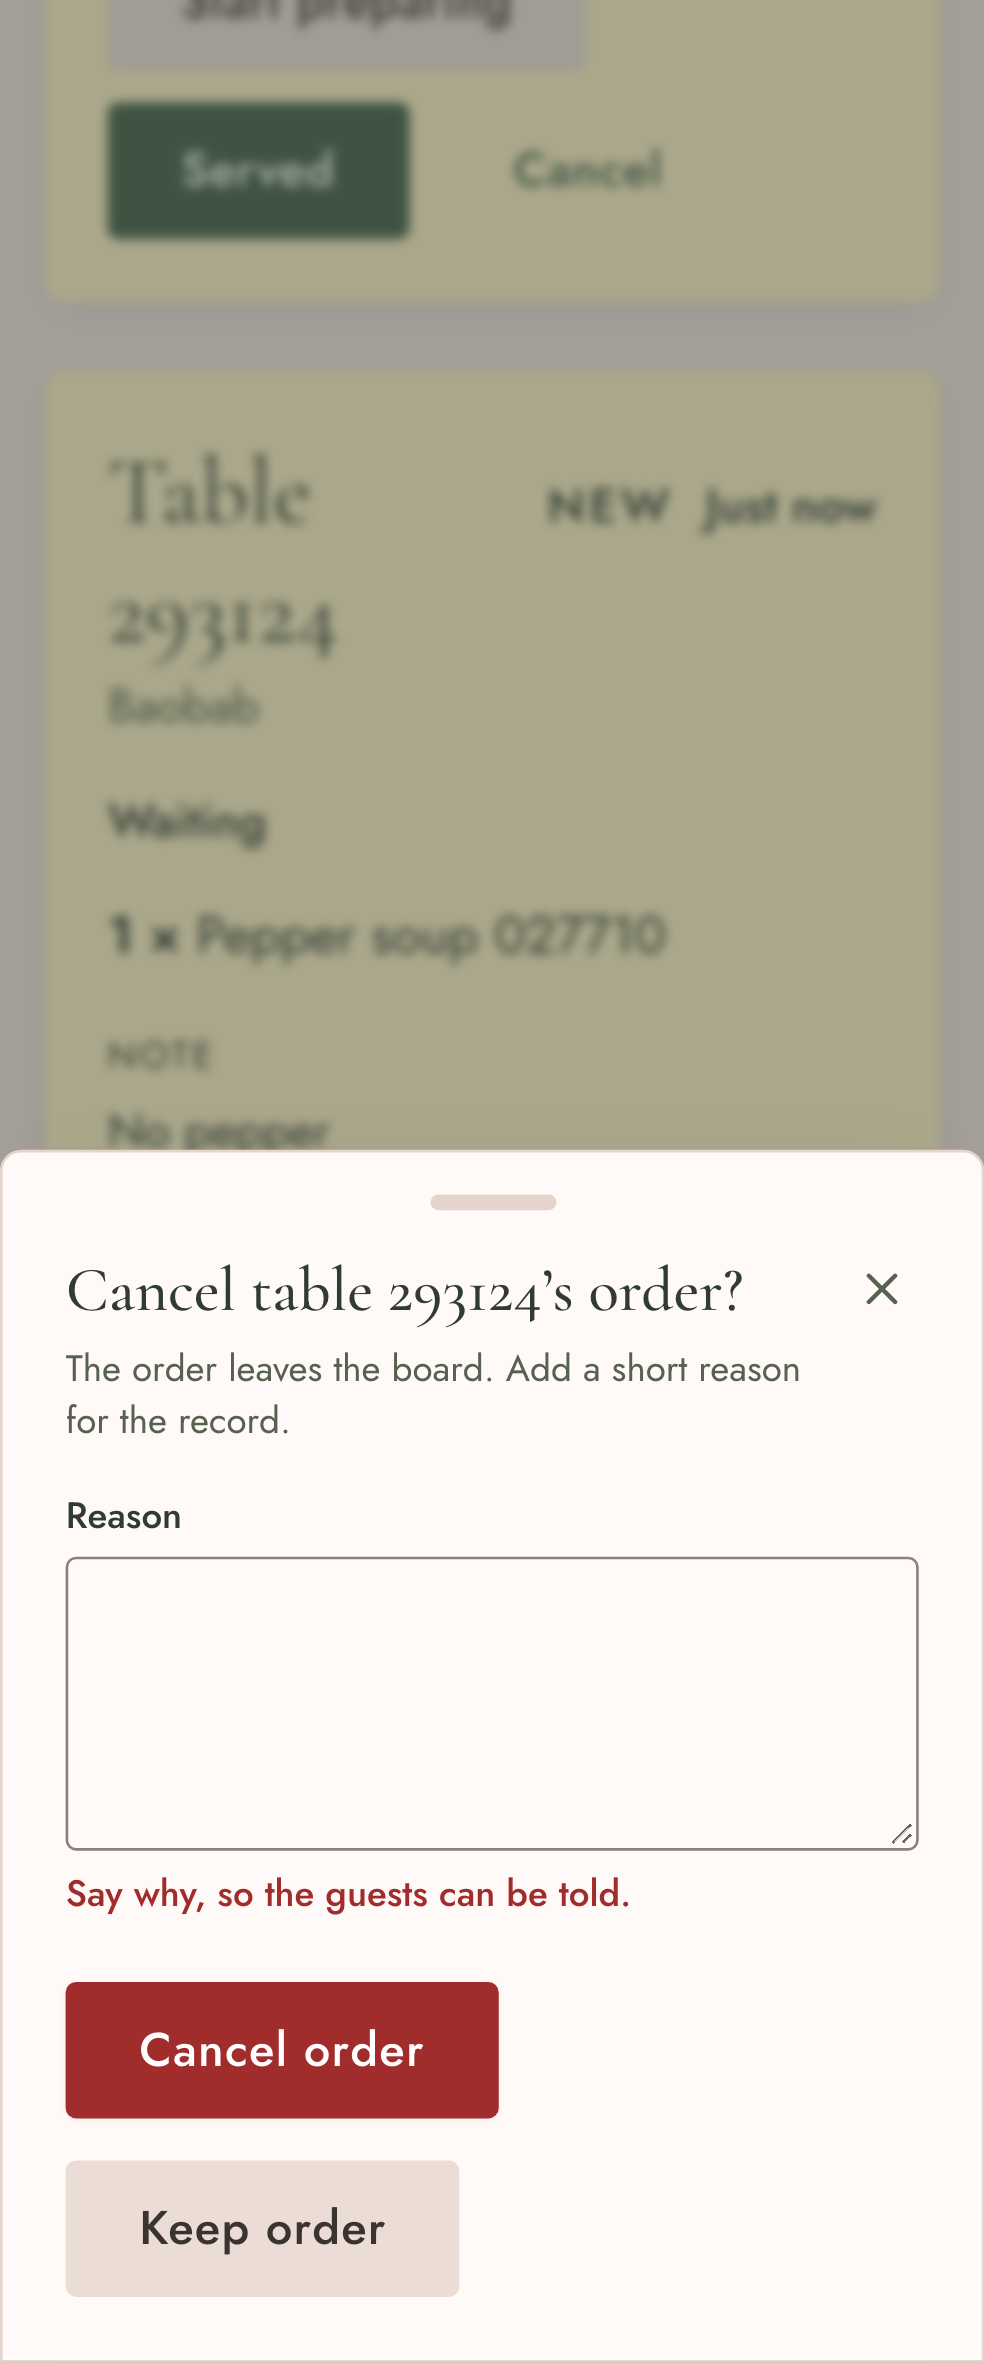
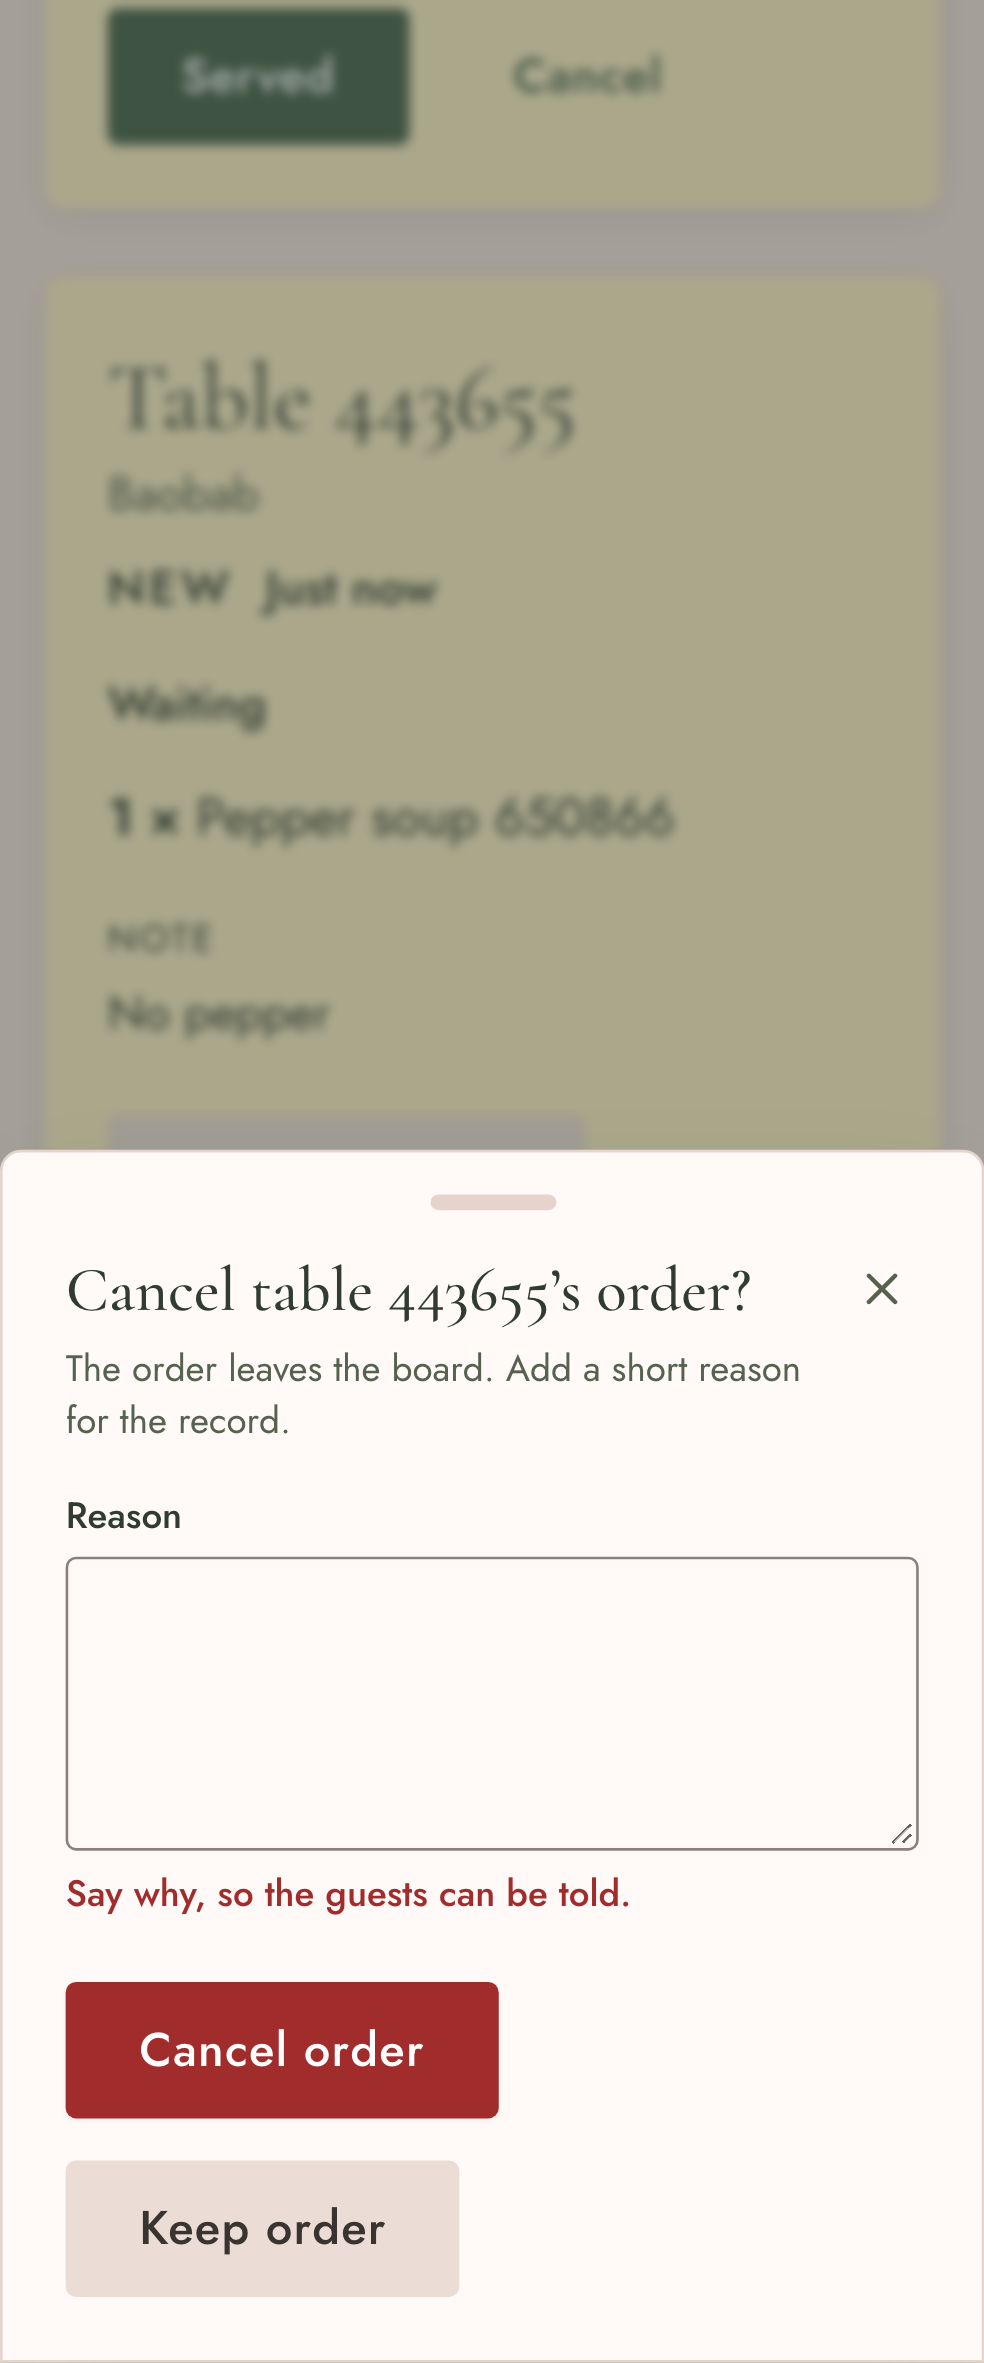
TICKET-079: test staff orders end to end, wrap card labels and write up

diff --git a/e2e/station-boards.spec.ts b/e2e/station-boards.spec.ts
@@ -6,6 +6,7 @@ import { assertDatabaseTarget } from "../scripts/database-target";
 import { themes } from "../src/modules/theming/themes";
 import { scanA11y } from "./support/axe";
 import { applyTheme } from "./support/theme";
+import { localBudgetIdentity } from "./support/local-budget-identity";
 
 /**
  * TICKET-076 and TICKET-077 on a production build against this worktree's local Supabase stack
@@ -73,6 +74,9 @@ async function chimes(page: Page) {
 }
 
 test.describe("kitchen board", () => {
+  // The tests share the event settings that keep staff signed in; parallel workers restoring
+  // them would sign each other out mid-test.
+  test.describe.configure({ mode: "serial" });
   test.skip(process.env.RUN_KITCHEN_BOARD_E2E !== "1", "Needs a local stack with Realtime");
 
   test.beforeAll(async () => {
@@ -97,6 +101,11 @@ test.describe("kitchen board", () => {
         (${drinkId}, ${"Chapman " + tag.slice(-6)}, 'soft_drink', 'bar', 5, true)`;
     await db`insert into staff(id, name, role, pin_hash, pin_issued_at, pin_expires_at)
       values (${barStaffId}, ${tag + " bar"}, 'bar', ${credential(barPin)}, now() - interval '1 minute', now() + interval '1 day')`;
+  });
+  // Every test signs devices in with PINs; repeated local runs would otherwise use up the
+  // localhost PIN budget (30 per 10 minutes) and fail at sign-in.
+  test.beforeEach(async () => {
+    await db`delete from request_budgets where scope = 'pin' and identity = ${localBudgetIdentity()}`;
   });
   test.afterAll(async () => {
     if (!db) return;

diff --git a/src/modules/ordering/components/station-board.tsx b/src/modules/ordering/components/station-board.tsx
@@ -390,7 +390,7 @@ function TicketCard({
         )}
       />
       <div className="relative flex flex-col gap-4 p-6 text-lg leading-relaxed">
-        <div className="flex items-baseline justify-between gap-4">
+        <div className="flex flex-wrap items-baseline justify-between gap-x-4 gap-y-2">
           <h3 className="font-display text-4xl leading-tight">
             Table {ticket.table.number}
             {ticket.table.name ? (
@@ -399,10 +399,10 @@ function TicketCard({
               </span>
             ) : null}
           </h3>
-          <p className="shrink-0 text-lg font-medium">
-            {isNew ? <span className="mr-3 tracking-widest uppercase">New</span> : null}
+          <p className="flex flex-wrap items-baseline gap-x-3 text-lg font-medium">
+            {isNew ? <span className="tracking-widest uppercase">New</span> : null}
             {ticket.staffEntered ? (
-              <span className="mr-3 tracking-widest uppercase">Staff order</span>
+              <span className="tracking-widest uppercase">Staff order</span>
             ) : null}
             <time dateTime={ticket.createdAt}>{ticketAge(ticket.createdAt, now)}</time>
           </p>

diff --git a/docs/plans/TICKET-079-pr.md b/docs/plans/TICKET-079-pr.md
@@ -1,0 +1,98 @@
+# Ticket
+
+Ticket: TICKET-079
+
+# Summary
+
+When a guest's phone can't connect, a waiter can take their order by voice and enter it from the kitchen or bar
+board (PRD connectivity plan).
+
+- **Entering it:** "New order" opens a bottom sheet with the table number and the same menu guests see, with the same
+  caps and sold-out states, plus a note.
+- **Where it goes:** the order splits to the kitchen and bar like any other and is flagged "Staff order" on both
+  boards.
+- **Limits:** it skips the table cooldown, which only slows repeated taps from a guest's phone. The open-order
+  limit and item caps still apply.
+
+# Changes
+
+- **Migration `drizzle/0031_staff-entered-orders.sql`** (generated, additive): nullable
+  `orders.entered_by_staff_id`, referencing staff with `ON DELETE SET NULL`.
+- **`lib/order-limits.ts`:** `rejectTableUsage(..., { staffEntered })` skips only the cooldown.
+- **`server/create-order.ts`:**
+  - passes `staffEntered` to the limit check
+  - records `enteredByStaffId`
+  - still allows staff orders while guest ordering is closed, as before
+- **`server/staff-order-route.ts`** and `POST /api/{kitchen,bar}/orders`:
+  - live station session check; 403 without one
+  - then the guest order handler: same JSON-only body, 8 KB limit, schema, replay safety and plain errors
+- **Board:**
+  - tickets carry `staffEntered`, and cards show a "Staff order" label
+  - the header labels now wrap: at 375 px, "New", "Staff order" and the age overflowed the card
+- **`components/staff-order-sheet.tsx`** (new): shared `Sheet`, `Input`, `MenuSections`, `Textarea` and `Button`.
+  - One request id per attempt, so a double tap can't create two orders.
+  - Refusals use the guest order wording, and the board shows "Order sent for table N."
+  - **Menu:** the station screen loads it for the sheet.
+- **Tests:**
+  - `order-limits` unit tests for the exemption.
+  - A fourth case in `e2e/station-boards.spec.ts`.
+  - The spec now runs serially, resetting the localhost PIN sign-in budget before each test.
+
+# Acceptance criteria and evidence
+
+- [x] **A staff-entered order appears on the right board and is flagged staff-entered (e2e).**
+  - From the kitchen tablet, the waiter enters 2 soups and 1 Chapman for a table.
+  - The kitchen card shows "2 × Pepper soup" with "Staff order". The bar tablet's card shows "1 × Chapman" with
+    "Staff order", within 2 s.
+  - Both orders store `entered_by_staff_id` as that staff member.
+- [x] **Staff-entered orders bypass the cooldown but not item caps (unit).**
+  - `rejectTableUsage` refuses a guest order 1 s after the last one (cooldown) but allows a staff one.
+  - It still refuses a staff order once the table has 3 open orders.
+  - `overLimitItemIds` is unchanged for staff orders.
+  - In the e2e, a second staff order for the same table straight after the first is accepted.
+
+# UI checklist (staff screen scope)
+
+- **Screenshots:** PASS. `docs/reviews/TICKET-079/375-new-order-sheet.png` and `375-staff-order-card.png`,
+  inspected. The overflowing card header found there was fixed and re-checked.
+- **Tokens:** PASS. Shared components and theme classes only.
+- **Restraint and typography:** PASS. One primary action per sheet ("Send order"); body at least 18 px.
+- **Mobile:** PASS. A bottom sheet; 44 px and larger steppers and buttons; no horizontal scroll.
+- **Motion:** PASS. No new animation.
+- **Keyboard:** PASS. The table number, steppers and note are labelled. The shared dialog handles focus and Escape.
+- **Contrast:** PASS. The axe scan in every theme at 375 px, with the sheet open, found no WCAG A or AA violations.
+- **Load and images:** N/A. No images.
+- **Performance:** N/A. Staff screen.
+- **Copy:** PASS. Guest order wording is reused. Provisional: "New order", "New order for a table", "Enter the table
+  number." and "Order sent for table N."
+- **Shared components:** PASS. Reused the menu and form components; no new shared pattern.
+- **Sharing and devices:** N/A. Staff screen.
+- **QR codes:** N/A.
+- **Staff feedback:** PASS. Sending disables the form, and success or refusal shows at once.
+- **Verification:** see below.
+
+# Verification
+
+- `RUN_KITCHEN_BOARD_E2E=1 playwright test e2e/station-boards.spec.ts --project=mobile` on `pnpm build`: 4 passed,
+  four times in a row after the serial and PIN-budget fixes.
+  - Before those fixes, parallel workers signed each other out, and repeated runs hit the localhost PIN limit.
+- `vitest run src/modules/ordering`: all passed (134 before this ticket's tests, plus the new ones).
+- `pnpm typecheck` and ESLint: clean.
+
+# Not tested and limitations
+
+- **No real-tablet check** (as for TICKET-076).
+- **Staff orders don't record a guest name.** Only the table and note are kept.
+
+# Risks and rollout
+
+- **Migration 0031 is additive:** a nullable column, so existing orders are unaffected.
+- **Rollback:** revert the PR. The column can stay.
+
+# Screenshots
+
+`docs/reviews/TICKET-079/375-new-order-sheet.png`, `docs/reviews/TICKET-079/375-staff-order-card.png`
+
+# Harness changes, if any
+
+`e2e/station-boards.spec.ts` runs serially and resets the localhost PIN budget per test (test-only).

diff --git a/tickets/TICKET-079-let-staff-enter-an-order-for-a-table-from-the-bo.md b/tickets/TICKET-079-let-staff-enter-an-order-for-a-table-from-the-bo.md
@@ -40,8 +40,8 @@ See: [Connectivity plan](../docs/prd.md#connectivity-plan-signal-unknown).
 
 ## Acceptance criteria
 
-- [ ] A staff-entered order appears on the right board and is flagged staff-entered (e2e).
-- [ ] Staff-entered orders bypass cooldown but not item caps (unit).
+- [x] A staff-entered order appears on the right board and is flagged staff-entered (e2e).
+- [x] Staff-entered orders bypass cooldown but not item caps (unit).
 
 ## Test plan
 
@@ -56,6 +56,17 @@ See: [Connectivity plan](../docs/prd.md#connectivity-plan-signal-unknown).
 ## Notes / decisions
 
 _Agents append dated notes here while working._
+
+- 2026-11-12 (unclechenna, claude):
+  - **"New order" on each board** opens a bottom sheet with the table number, the guest menu (`MenuSections`, same
+    caps and sold-out states) and a note. It posts to `/api/<station>/orders`, which checks the live station
+    session and reuses the guest order handler.
+  - **Limits:** staff orders skip only the table cooldown. The open-order limit and item caps still apply, and they
+    can still be placed while guest ordering is closed (as before).
+  - **Record:** `orders.entered_by_staff_id` (migration 0031, additive) records who entered it. Boards show
+    "Staff order" on those tickets.
+  - **Board e2e harness:** the spec now runs serially, because tests share the event settings that keep staff
+    signed in. It also resets the localhost PIN budget per test, so repeated runs don't hit the sign-in limit.
 
 ## Activity log
 
